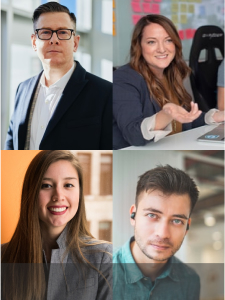
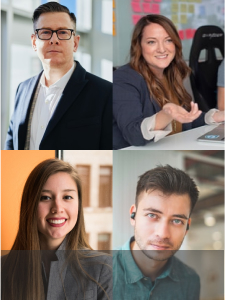
refactor: изменение фотографий, создание миксинов тени и панели, изменение отступов

Changed region(s): [[0.0, 0.48, 0.9956, 1.0], [0.2178, 0.99, 0.28, 1.0], [0.1244, 0.96, 0.1556, 1.0]]

diff --git a/build/css/styles.min.css b/build/css/styles.min.css
@@ -1,2 +1,2 @@
-html{line-height:1.15;-webkit-text-size-adjust:100%;-moz-text-size-adjust:100%;text-size-adjust:100%}body{min-height:100vh;text-rendering:optimizeSpeed;line-height:1.5}blockquote,body,button,dd,dl,figure,h1,h2,h3,h4,input,optgroup,p,select,textarea{margin:0}details,main{display:block}h1{font-size:2em;margin:.67em 0}hr{box-sizing:content-box;height:0;overflow:visible}code,kbd,pre,samp{font-family:monospace;font-size:1em}a{background-color:transparent}abbr[title]{border-bottom:none;text-decoration:underline}b,strong{font-weight:bolder}small{font-size:80%}sub,sup{font-size:75%;line-height:0;position:relative;vertical-align:baseline}sub{bottom:-.25em}sup{top:-.5em}img{border-style:none}button,input,optgroup,select,textarea{font-family:inherit;font-size:100%;line-height:1.15}button,input{overflow:visible}button,select{text-transform:none}[type=button],[type=reset],[type=submit],button{-webkit-appearance:button;-moz-appearance:button;appearance:button}[type=button]::-moz-focus-inner,[type=reset]::-moz-focus-inner,[type=submit]::-moz-focus-inner,button::-moz-focus-inner{border-style:none;padding:0}[type=button]:-moz-focusring,[type=reset]:-moz-focusring,[type=submit]:-moz-focusring,button:-moz-focusring{outline:ButtonText dotted 1px}fieldset{padding:.35em .75em .625em}legend{box-sizing:border-box;color:inherit;display:table;max-width:100%;padding:0;white-space:normal}progress{vertical-align:baseline}textarea{overflow:auto}[type=checkbox],[type=radio]{box-sizing:border-box;padding:0}[type=number]::-webkit-inner-spin-button,[type=number]::-webkit-outer-spin-button{height:auto}[type=search]{-webkit-appearance:textfield;-moz-appearance:textfield;appearance:textfield;outline-offset:-2px}[type=search]::-webkit-search-decoration{-webkit-appearance:none;appearance:none}::-webkit-file-upload-button{-webkit-appearance:button;appearance:button;font:inherit}summary{display:list-item}[hidden],template{display:none}ol,ul{list-style:none;margin:0;padding:0}@font-face{font-family:Montserrat;font-style:normal;font-weight:700;font-display:swap;src:url(../fonts/montserrat-bold.eot);src:local("Montserrat"),url(../fonts/montserrat-bold.woff2) format("woff2"),url(../fonts/montserrat-bold.woff) format("woff"),url(../fonts/montserrat-bold.ttf) format("truetype"),url(../fonts/montserrat-bold.svg) format("svg")}@font-face{font-family:Montserrat;font-style:normal;font-weight:500;font-display:swap;src:local("Montserrat"),url(../fonts/montserrat-medium.woff2) format("woff2"),url(../fonts/montserrat-medium.woff) format("woff"),url(../fonts/montserrat-medium.ttf) format("truetype"),url(../fonts/montserrat-medium.svg) format("svg")}@font-face{font-family:Montserrat;font-weight:600;font-style:normal;font-display:swap;src:local("Ubuntu"),url(../fonts/montserrat-semibold.woff2) format("woff2"),url(../fonts/montserrat-semibold.woff) format("woff"),url(../fonts/montserrat-semibold.ttf) format("truetype"),url(../fonts/montserrat-semibold.svg) format("svg")}@font-face{font-family:"Open Sans";font-weight:900;font-style:normal;font-display:swap;src:local("Open Sans"),url(../fonts/opensans-regular.woff2) format("woff2"),url(../fonts/opensans-regular.woff) format("woff"),url(../fonts/opensans-regular.ttf) format("truetype"),url(../fonts/opensans-regular.svg) format("svg")}.visually-hidden{position:absolute;width:1px;height:1px;margin:-1px;border:0;padding:0;white-space:nowrap;-webkit-clip-path:inset(100%);clip-path:inset(100%);clip:rect(0 0 0 0);overflow:hidden}.container{padding:0 20px}.page__container{min-width:320px;background:linear-gradient(52deg,#5540bf 58%,#afa1f9 100%)}.header__navigation{display:flex;align-items:center;justify-content:space-between;padding:10px 0}.header__menu-button{color:none;background-color:transparent;border:none;padding:5px}.footer__paragraph{font-family:"Open Sans";font-weight:400;font-size:16px;line-height:22px;color:#5540bf;word-break:break-word;max-width:350px;text-align:center}.logo{display:block;height:45px;width:45px}.menu{font-family:Montserrat;font-weight:500;font-size:14px;line-height:17px;color:#fff;word-break:break-word;display:none}.menu__close{color:none;background-color:transparent;border:none}.introduction{display:flex;flex-direction:column;flex-wrap:wrap;align-items:center;justify-content:center;row-gap:18px;padding-top:41px}.introduction__title{font-family:Montserrat;font-weight:700;font-size:24px;line-height:32px;color:#fff;word-break:break-word;margin:0 23px;max-width:350px;text-align:center}.introduction__paragraph{font-family:"Open Sans";font-weight:400;font-size:13px;line-height:20px;color:#fff;word-break:break-word;max-width:350px;text-align:center;margin:29px 23px}.introduction__paragraph:nth-of-type(2){margin:0 23px}.introduction__link{display:block;font-family:Montserrat;font-weight:600;outline:0;font-size:12px;line-height:15px;word-break:break-word;box-sizing:border-box;padding:13px;text-align:center;text-transform:uppercase;width:222px;text-decoration:none;min-height:41px;border-radius:5px}.introduction__link--colored{color:#5540bf;background-color:#fff;border:none}.introduction__link--uncolored{color:#fff;background-color:transparent;border:1px solid #fff}.introduction__image-wrapper{width:100%;padding:53px 22px 64px;box-sizing:border-box}.introduction__image-block{position:relative;display:flex;flex-direction:column;flex-wrap:wrap;max-width:380px;max-height:1050px;margin:0 auto;row-gap:31px;z-index:1}.introduction__picture--1{align-self:flex-start}.introduction__picture--1::before{content:"";position:absolute;top:-16px;left:-24px;background-image:url(../images/dots-2.svg);background-repeat:no-repeat;width:101px;height:39px;z-index:-1}.introduction__picture--2{align-self:flex-end}.introduction__picture--2::before{content:"";position:absolute;bottom:-17px;right:-23px;background-image:url(../images/dots-1.svg);background-repeat:no-repeat;width:73px;height:59px;z-index:-1}.introduction__picture--2::after{content:"";position:absolute;bottom:141px;right:-23px;background-image:url(../images/figure-3.svg);background-repeat:no-repeat;width:102px;height:101px;z-index:-1}.introduction__image--2{position:absolute;top:32%;left:50%;transform:translateX(-50%);min-width:140px;max-width:271px}.introduction__image--4{display:none}.features{background:rgba(255,255,255,.1)}.features__list{display:flex;flex-direction:column;flex-wrap:wrap;align-items:center;justify-content:center;row-gap:14px;padding:38px 0}.features__item{font-family:Montserrat;font-weight:600;font-size:10px;line-height:12px;color:#fff;word-break:break-word;border:2px solid #fff;border-radius:100px;box-sizing:border-box;padding:16px;width:227px;text-align:center;text-transform:uppercase}.features__item--active{border:2px solid #ffd100;color:#ffd100}.group-calls{display:flex;flex-direction:column;flex-wrap:wrap;align-items:center;justify-content:center;background-color:#fff;background-image:url(../images/figure-1.svg);background-repeat:no-repeat;background-position:-350px -330px;background-size:cover;padding-top:46px;padding-bottom:51px}.group-calls__title{font-family:Montserrat;font-weight:700;font-size:17px;line-height:28px;color:#000;word-break:break-word;margin:0;max-width:350px;text-align:center}.group-calls__paragraph{font-family:"Open Sans";font-weight:400;font-size:16px;line-height:26px;color:#000;word-break:break-word;max-width:350px;text-align:center;margin:44px 23px}.group-calls__link{display:block;font-family:Montserrat;font-weight:600;outline:0;font-size:12px;line-height:15px;word-break:break-word;box-sizing:border-box;padding:13px;text-align:center;text-transform:uppercase;width:222px;text-decoration:none;min-height:41px;border-radius:5px;color:#fff;background-color:#5540bf;border:none}.group-calls__image-block{position:relative;margin:94px 45px 111px 10px}.group-calls__picture{display:block}.group-calls__picture--2{position:absolute;top:162px;left:125px}.group-calls__image{box-shadow:0 0 20px rgba(0,0,0,.2)}.group-calls__image--1{border-radius:20px}.group-calls__image--2{border-radius:15px 15px 10px 10px}.security{display:flex;flex-direction:column;flex-wrap:wrap;align-items:center;justify-content:center;background-color:#fff;padding-top:45px}.security__title{font-family:Montserrat;font-weight:700;font-size:17px;line-height:28px;color:#000;word-break:break-word;margin:0;max-width:350px;text-align:center}.security__paragraph{font-family:"Open Sans";font-weight:400;font-size:16px;line-height:26px;color:#000;word-break:break-word;max-width:350px;text-align:center;margin:45px 15px}.security__link{display:block;font-family:Montserrat;font-weight:600;outline:0;font-size:12px;line-height:15px;word-break:break-word;box-sizing:border-box;padding:13px;text-align:center;text-transform:uppercase;width:222px;text-decoration:none;min-height:41px;border-radius:5px;color:#fff;background-color:#5540bf;border:none}.security__image-wrapper{width:100%;box-sizing:border-box}.security__image-block{position:relative;display:flex;flex-direction:column;flex-wrap:wrap;max-width:488px;max-height:1050px;margin:88px auto 50px}.security__picture--2{position:relative;margin-right:28px}.security__picture--1::before{position:absolute;top:0;left:50%;transform:translateX(-50%);content:"";height:100%;width:256px;background:linear-gradient(120deg,rgba(51,51,51,0) 35%,#333 99%);border-radius:20px}.security__picture--1::after{position:absolute;top:345px;left:50%;transform:translateX(-50%);content:"";height:29px;width:104px;background:url(../images/icons/disable-video-icon.svg) no-repeat,url(../images/icons/disable-call-icon.svg) 37px 0 no-repeat,url(../images/icons/mute-icon.svg) 75px 0 no-repeat}.security__image{display:block}.security__image--1{margin:0 auto;border-radius:20px;box-shadow:0 0 20px rgba(0,0,0,.2)}.security__image--2{position:absolute;top:-127px;left:100%;transform:translateX(-100%);border-radius:10px;box-shadow:0 0 20px rgba(0,0,0,.2)}.access__title{font-family:Montserrat;font-weight:700;font-size:17px;line-height:28px;color:#000;word-break:break-word;margin:0 23px;max-width:350px;text-align:center}.access__paragraph{font-family:"Open Sans";font-weight:400;font-size:16px;line-height:26px;color:#000;word-break:break-word;max-width:350px;text-align:center}.access__link{display:block;font-family:Montserrat;font-weight:600;outline:0;font-size:12px;line-height:15px;word-break:break-word;box-sizing:border-box;padding:13px;text-align:center;text-transform:uppercase;width:222px;text-decoration:none;min-height:41px;border-radius:5px}.access__link--colored{color:#fff;background-color:#5540bf;border:none}.access__link--uncolored{color:#5540bf;background-color:transparent;border:1px solid #5540bf}.streams{background-color:linear-gradient(52deg,#5540bf 58%,#afa1f9 100%)}.streams__title{font-family:Montserrat;font-weight:700;font-size:17px;line-height:28px;color:#000;word-break:break-word;margin:0 23px;max-width:350px;text-align:center}.streams__paragraph{font-family:"Open Sans";font-weight:400;font-size:16px;line-height:26px;color:#000;word-break:break-word;max-width:350px;text-align:center}.streams__link{display:block;font-family:Montserrat;font-weight:600;outline:0;font-size:12px;line-height:15px;word-break:break-word;box-sizing:border-box;padding:13px;text-align:center;text-transform:uppercase;width:222px;text-decoration:none;min-height:41px;border-radius:5px}.streams__link--colored{color:#fff;background-color:#5540bf;border:none}
+html{line-height:1.15;-webkit-text-size-adjust:100%;-moz-text-size-adjust:100%;text-size-adjust:100%}body{min-height:100vh;text-rendering:optimizeSpeed;line-height:1.5}blockquote,body,button,dd,dl,figure,h1,h2,h3,h4,input,optgroup,p,select,textarea{margin:0}details,main{display:block}h1{font-size:2em;margin:.67em 0}hr{box-sizing:content-box;height:0;overflow:visible}code,kbd,pre,samp{font-family:monospace;font-size:1em}a{background-color:transparent}abbr[title]{border-bottom:none;text-decoration:underline}b,strong{font-weight:bolder}small{font-size:80%}sub,sup{font-size:75%;line-height:0;position:relative;vertical-align:baseline}sub{bottom:-.25em}sup{top:-.5em}img{border-style:none}button,input,optgroup,select,textarea{font-family:inherit;font-size:100%;line-height:1.15}button,input{overflow:visible}button,select{text-transform:none}[type=button],[type=reset],[type=submit],button{-webkit-appearance:button;-moz-appearance:button;appearance:button}[type=button]::-moz-focus-inner,[type=reset]::-moz-focus-inner,[type=submit]::-moz-focus-inner,button::-moz-focus-inner{border-style:none;padding:0}[type=button]:-moz-focusring,[type=reset]:-moz-focusring,[type=submit]:-moz-focusring,button:-moz-focusring{outline:ButtonText dotted 1px}fieldset{padding:.35em .75em .625em}legend{box-sizing:border-box;color:inherit;display:table;max-width:100%;padding:0;white-space:normal}progress{vertical-align:baseline}textarea{overflow:auto}[type=checkbox],[type=radio]{box-sizing:border-box;padding:0}[type=number]::-webkit-inner-spin-button,[type=number]::-webkit-outer-spin-button{height:auto}[type=search]{-webkit-appearance:textfield;-moz-appearance:textfield;appearance:textfield;outline-offset:-2px}[type=search]::-webkit-search-decoration{-webkit-appearance:none;appearance:none}::-webkit-file-upload-button{-webkit-appearance:button;appearance:button;font:inherit}summary{display:list-item}[hidden],template{display:none}ol,ul{list-style:none;margin:0;padding:0}@font-face{font-family:Montserrat;font-style:normal;font-weight:700;font-display:swap;src:url(../fonts/montserrat-bold.eot);src:local("Montserrat"),url(../fonts/montserrat-bold.woff2) format("woff2"),url(../fonts/montserrat-bold.woff) format("woff"),url(../fonts/montserrat-bold.ttf) format("truetype"),url(../fonts/montserrat-bold.svg) format("svg")}@font-face{font-family:Montserrat;font-style:normal;font-weight:500;font-display:swap;src:local("Montserrat"),url(../fonts/montserrat-medium.woff2) format("woff2"),url(../fonts/montserrat-medium.woff) format("woff"),url(../fonts/montserrat-medium.ttf) format("truetype"),url(../fonts/montserrat-medium.svg) format("svg")}@font-face{font-family:Montserrat;font-weight:600;font-style:normal;font-display:swap;src:local("Ubuntu"),url(../fonts/montserrat-semibold.woff2) format("woff2"),url(../fonts/montserrat-semibold.woff) format("woff"),url(../fonts/montserrat-semibold.ttf) format("truetype"),url(../fonts/montserrat-semibold.svg) format("svg")}@font-face{font-family:"Open Sans";font-weight:900;font-style:normal;font-display:swap;src:local("Open Sans"),url(../fonts/opensans-regular.woff2) format("woff2"),url(../fonts/opensans-regular.woff) format("woff"),url(../fonts/opensans-regular.ttf) format("truetype"),url(../fonts/opensans-regular.svg) format("svg")}.visually-hidden{position:absolute;width:1px;height:1px;margin:-1px;border:0;padding:0;white-space:nowrap;-webkit-clip-path:inset(100%);clip-path:inset(100%);clip:rect(0 0 0 0);overflow:hidden}.container{padding:0 20px}.page__container{min-width:320px;background:linear-gradient(52deg,#5540bf 58%,#afa1f9 100%)}.header__navigation{display:flex;align-items:center;justify-content:space-between;padding:10px 0}.header__menu-button{color:none;background-color:transparent;border:none;padding:5px}.footer__paragraph{font-family:"Open Sans";font-weight:400;font-size:16px;line-height:22px;color:#5540bf;word-break:break-word;max-width:350px;text-align:center}.logo{display:block;height:45px;width:45px}.menu{font-family:Montserrat;font-weight:500;font-size:14px;line-height:17px;color:#fff;word-break:break-word;display:none}.menu__close{color:none;background-color:transparent;border:none}.introduction{display:flex;flex-direction:column;flex-wrap:wrap;align-items:center;justify-content:center;row-gap:18px;padding-top:41px}.introduction__title{font-family:Montserrat;font-weight:700;font-size:24px;line-height:32px;color:#fff;word-break:break-word;margin:0 23px;max-width:350px;text-align:center}.introduction__paragraph{font-family:"Open Sans";font-weight:400;font-size:13px;line-height:20px;color:#fff;word-break:break-word;max-width:350px;text-align:center;margin:29px 23px}.introduction__paragraph:nth-of-type(2){margin:0 23px}.introduction__link{display:block;font-family:Montserrat;font-weight:600;outline:0;font-size:12px;line-height:15px;word-break:break-word;box-sizing:border-box;padding:13px;text-align:center;text-transform:uppercase;width:222px;text-decoration:none;min-height:41px;border-radius:5px}.introduction__link--colored{color:#5540bf;background-color:#fff;border:none}.introduction__link--uncolored{color:#fff;background-color:transparent;border:1px solid #fff}.introduction__image-wrapper{width:100%;padding:53px 22px 64px;box-sizing:border-box}.introduction__image-block{position:relative;display:flex;flex-direction:column;flex-wrap:wrap;max-width:380px;max-height:1050px;margin:0 auto;row-gap:31px;z-index:1}.introduction__picture--1{align-self:flex-start}.introduction__picture--1::before{content:"";position:absolute;top:-16px;left:-24px;background-image:url(../images/dots-2.svg);background-repeat:no-repeat;width:101px;height:39px;z-index:-1}.introduction__picture--2{align-self:flex-end}.introduction__picture--2::before{content:"";position:absolute;bottom:-17px;right:-23px;background-image:url(../images/dots-1.svg);background-repeat:no-repeat;width:73px;height:59px;z-index:-1}.introduction__picture--2::after{content:"";position:absolute;bottom:141px;right:-23px;background-image:url(../images/figure-3.svg);background-repeat:no-repeat;width:102px;height:101px;z-index:-1}.introduction__image--2{position:absolute;top:32%;left:50%;transform:translateX(-50%);min-width:140px;max-width:271px}.introduction__image--4{display:none}.features{background:rgba(255,255,255,.1)}.features__list{display:flex;flex-direction:column;flex-wrap:wrap;align-items:center;justify-content:center;row-gap:14px;padding:38px 0}.features__item{font-family:Montserrat;font-weight:600;font-size:10px;line-height:12px;color:#fff;word-break:break-word;border:2px solid #fff;border-radius:100px;box-sizing:border-box;padding:16px;width:227px;text-align:center;text-transform:uppercase}.features__item--active{border:2px solid #ffd100;color:#ffd100}.group-calls{display:flex;flex-direction:column;flex-wrap:wrap;align-items:center;justify-content:center;background-color:#fff;background-image:url(../images/figure-1.svg);background-repeat:no-repeat;background-position:-350px -330px;background-size:cover;padding-top:46px;padding-bottom:57px}.group-calls__title{font-family:Montserrat;font-weight:700;font-size:17px;line-height:28px;color:#000;word-break:break-word;margin:0;max-width:350px;text-align:center}.group-calls__paragraph{font-family:"Open Sans";font-weight:400;font-size:16px;line-height:26px;color:#000;word-break:break-word;max-width:350px;text-align:center;margin:44px 23px}.group-calls__link{display:block;font-family:Montserrat;font-weight:600;outline:0;font-size:12px;line-height:15px;word-break:break-word;box-sizing:border-box;padding:13px;text-align:center;text-transform:uppercase;width:222px;text-decoration:none;min-height:41px;border-radius:5px;color:#fff;background-color:#5540bf;border:none}.group-calls__image-block{position:relative;margin:94px 45px 111px 10px}.group-calls__picture{display:block;height:300px}.group-calls__picture--1::before{position:absolute;top:0;left:50%;transform:translateX(-50%);content:"";height:100%;width:225px;background:linear-gradient(120deg,rgba(51,51,51,0) 35%,#333 99%);border-radius:20px}.group-calls__picture--1::after{position:absolute;top:261px;left:50%;transform:translateX(-50%);content:"";height:29px;width:104px;background:url(../images/icons/disable-video-icon.svg) no-repeat,url(../images/icons/disable-call-icon.svg) 37px 0 no-repeat,url(../images/icons/mute-icon.svg) 75px 0 no-repeat}.group-calls__picture--2{position:absolute;top:162px;left:125px}.group-calls__image{box-shadow:0 0 20px rgba(0,0,0,.2)}.group-calls__image--1{border-radius:20px}.group-calls__image--2{border-radius:15px 15px 10px 10px}.security{display:flex;flex-direction:column;flex-wrap:wrap;align-items:center;justify-content:center;background-color:#fff;padding-top:45px}.security__title{font-family:Montserrat;font-weight:700;font-size:17px;line-height:28px;color:#000;word-break:break-word;margin:0;max-width:350px;text-align:center}.security__paragraph{font-family:"Open Sans";font-weight:400;font-size:16px;line-height:26px;color:#000;word-break:break-word;max-width:350px;text-align:center;margin:45px 15px}.security__link{display:block;font-family:Montserrat;font-weight:600;outline:0;font-size:12px;line-height:15px;word-break:break-word;box-sizing:border-box;padding:13px;text-align:center;text-transform:uppercase;width:222px;text-decoration:none;min-height:41px;border-radius:5px;color:#fff;background-color:#5540bf;border:none}.security__image-wrapper{width:100%;box-sizing:border-box}.security__image-block{position:relative;display:flex;flex-direction:column;flex-wrap:wrap;max-width:488px;max-height:1050px;margin:88px auto 50px}.security__picture--2{position:relative;margin-right:28px}.security__picture--1::before{position:absolute;top:0;left:50%;transform:translateX(-50%);content:"";height:100%;width:256px;background:linear-gradient(120deg,rgba(51,51,51,0) 35%,#333 99%);border-radius:20px}.security__picture--1::after{position:absolute;top:346px;left:50%;transform:translateX(-50%);content:"";height:29px;width:104px;background:url(../images/icons/disable-video-icon.svg) no-repeat,url(../images/icons/disable-call-icon.svg) 37px 0 no-repeat,url(../images/icons/mute-icon.svg) 75px 0 no-repeat}.security__image{display:block}.security__image--1{margin:0 auto;border-radius:20px;box-shadow:0 0 20px rgba(0,0,0,.2)}.security__image--2{position:absolute;top:-137px;left:100%;transform:translateX(-100%);border-radius:10px;box-shadow:0 0 20px rgba(0,0,0,.2)}.access__title{font-family:Montserrat;font-weight:700;font-size:17px;line-height:28px;color:#000;word-break:break-word;margin:0 23px;max-width:350px;text-align:center}.access__paragraph{font-family:"Open Sans";font-weight:400;font-size:16px;line-height:26px;color:#000;word-break:break-word;max-width:350px;text-align:center}.access__link{display:block;font-family:Montserrat;font-weight:600;outline:0;font-size:12px;line-height:15px;word-break:break-word;box-sizing:border-box;padding:13px;text-align:center;text-transform:uppercase;width:222px;text-decoration:none;min-height:41px;border-radius:5px}.access__link--colored{color:#fff;background-color:#5540bf;border:none}.access__link--uncolored{color:#5540bf;background-color:transparent;border:1px solid #5540bf}.streams{background-color:linear-gradient(52deg,#5540bf 58%,#afa1f9 100%)}.streams__title{font-family:Montserrat;font-weight:700;font-size:17px;line-height:28px;color:#000;word-break:break-word;margin:0 23px;max-width:350px;text-align:center}.streams__paragraph{font-family:"Open Sans";font-weight:400;font-size:16px;line-height:26px;color:#000;word-break:break-word;max-width:350px;text-align:center}.streams__link{display:block;font-family:Montserrat;font-weight:600;outline:0;font-size:12px;line-height:15px;word-break:break-word;box-sizing:border-box;padding:13px;text-align:center;text-transform:uppercase;width:222px;text-decoration:none;min-height:41px;border-radius:5px}.streams__link--colored{color:#fff;background-color:#5540bf;border:none}
 /*# sourceMappingURL=styles.min.css.map */

diff --git a/source/scss/blocks/security.scss b/source/scss/blocks/security.scss
@@ -51,30 +51,11 @@
 
 .security__picture--1 {
     &::before {
-      position: absolute;
-      top: 0;
-      left: 50%;
-      transform: translateX(-50%);
-      content: "";
-      height: 100%;
-      width: 256px;
-      background: $box-shadow-2;
-      border-radius: 20px;
+      @include shadow(256px);
     }
 
     &::after {
-      position: absolute;
-      top: 345px;
-      left: 50%;
-      transform: translateX(-50%);
-      content: "";
-      height: 29px;
-      width: 104px;
-      background: url("../images/icons/disable-video-icon.svg"),
-                  url("../images/icons/disable-call-icon.svg"),
-                  url("../images/icons/mute-icon.svg");
-      background-repeat: no-repeat, no-repeat, no-repeat;
-      background-position: 0 0px, 37px 0, 75px 0;
+      @include panel(346px);
     }
   }
 
@@ -89,7 +70,7 @@
 
   &--2 {
     position: absolute;
-    top: -127px;
+    top: -137px;
     left: 100%;
     transform: translateX(-100%);
     border-radius: 10px;

diff --git a/source/scss/global/mixins.scss b/source/scss/global/mixins.scss
@@ -38,7 +38,32 @@
   justify-content: $justify;
 }
 
+@mixin panel($top) {
+  position: absolute;
+  top: $top;
+  left: 50%;
+  transform: translateX(-50%);
+  content: "";
+  height: 29px;
+  width: 104px;
+  background: url("../images/icons/disable-video-icon.svg"),
+              url("../images/icons/disable-call-icon.svg"),
+              url("../images/icons/mute-icon.svg");
+  background-repeat: no-repeat, no-repeat, no-repeat;
+  background-position: 0 0px, 37px 0, 75px 0;
+}
 
+@mixin shadow($width) {
+  position: absolute;
+  top: 0;
+  left: 50%;
+  transform: translateX(-50%);
+  content: "";
+  height: 100%;
+  width: $width;
+  background: $box-shadow-2;
+  border-radius: 20px;
+}
 // @mixin title-1-mobile {
 //   font-family: "Montserrat";
 //   font-weight: 700;

diff --git a/source/scss/blocks/group-calls.scss b/source/scss/blocks/group-calls.scss
@@ -6,7 +6,7 @@
   background-position: -350px -330px;
   background-size: cover;
   padding-top: 46px;
-  padding-bottom: 51px;
+  padding-bottom: 57px;
 }
 
 .group-calls__title {
@@ -34,6 +34,17 @@
 
 .group-calls__picture {
   display: block;
+  height: 300px;
+
+  &--1 {
+    &::before {
+      @include shadow(225px);
+    }
+
+    &::after {
+      @include panel(261px);
+    }
+  }
 
   &--2 {
     position: absolute;
